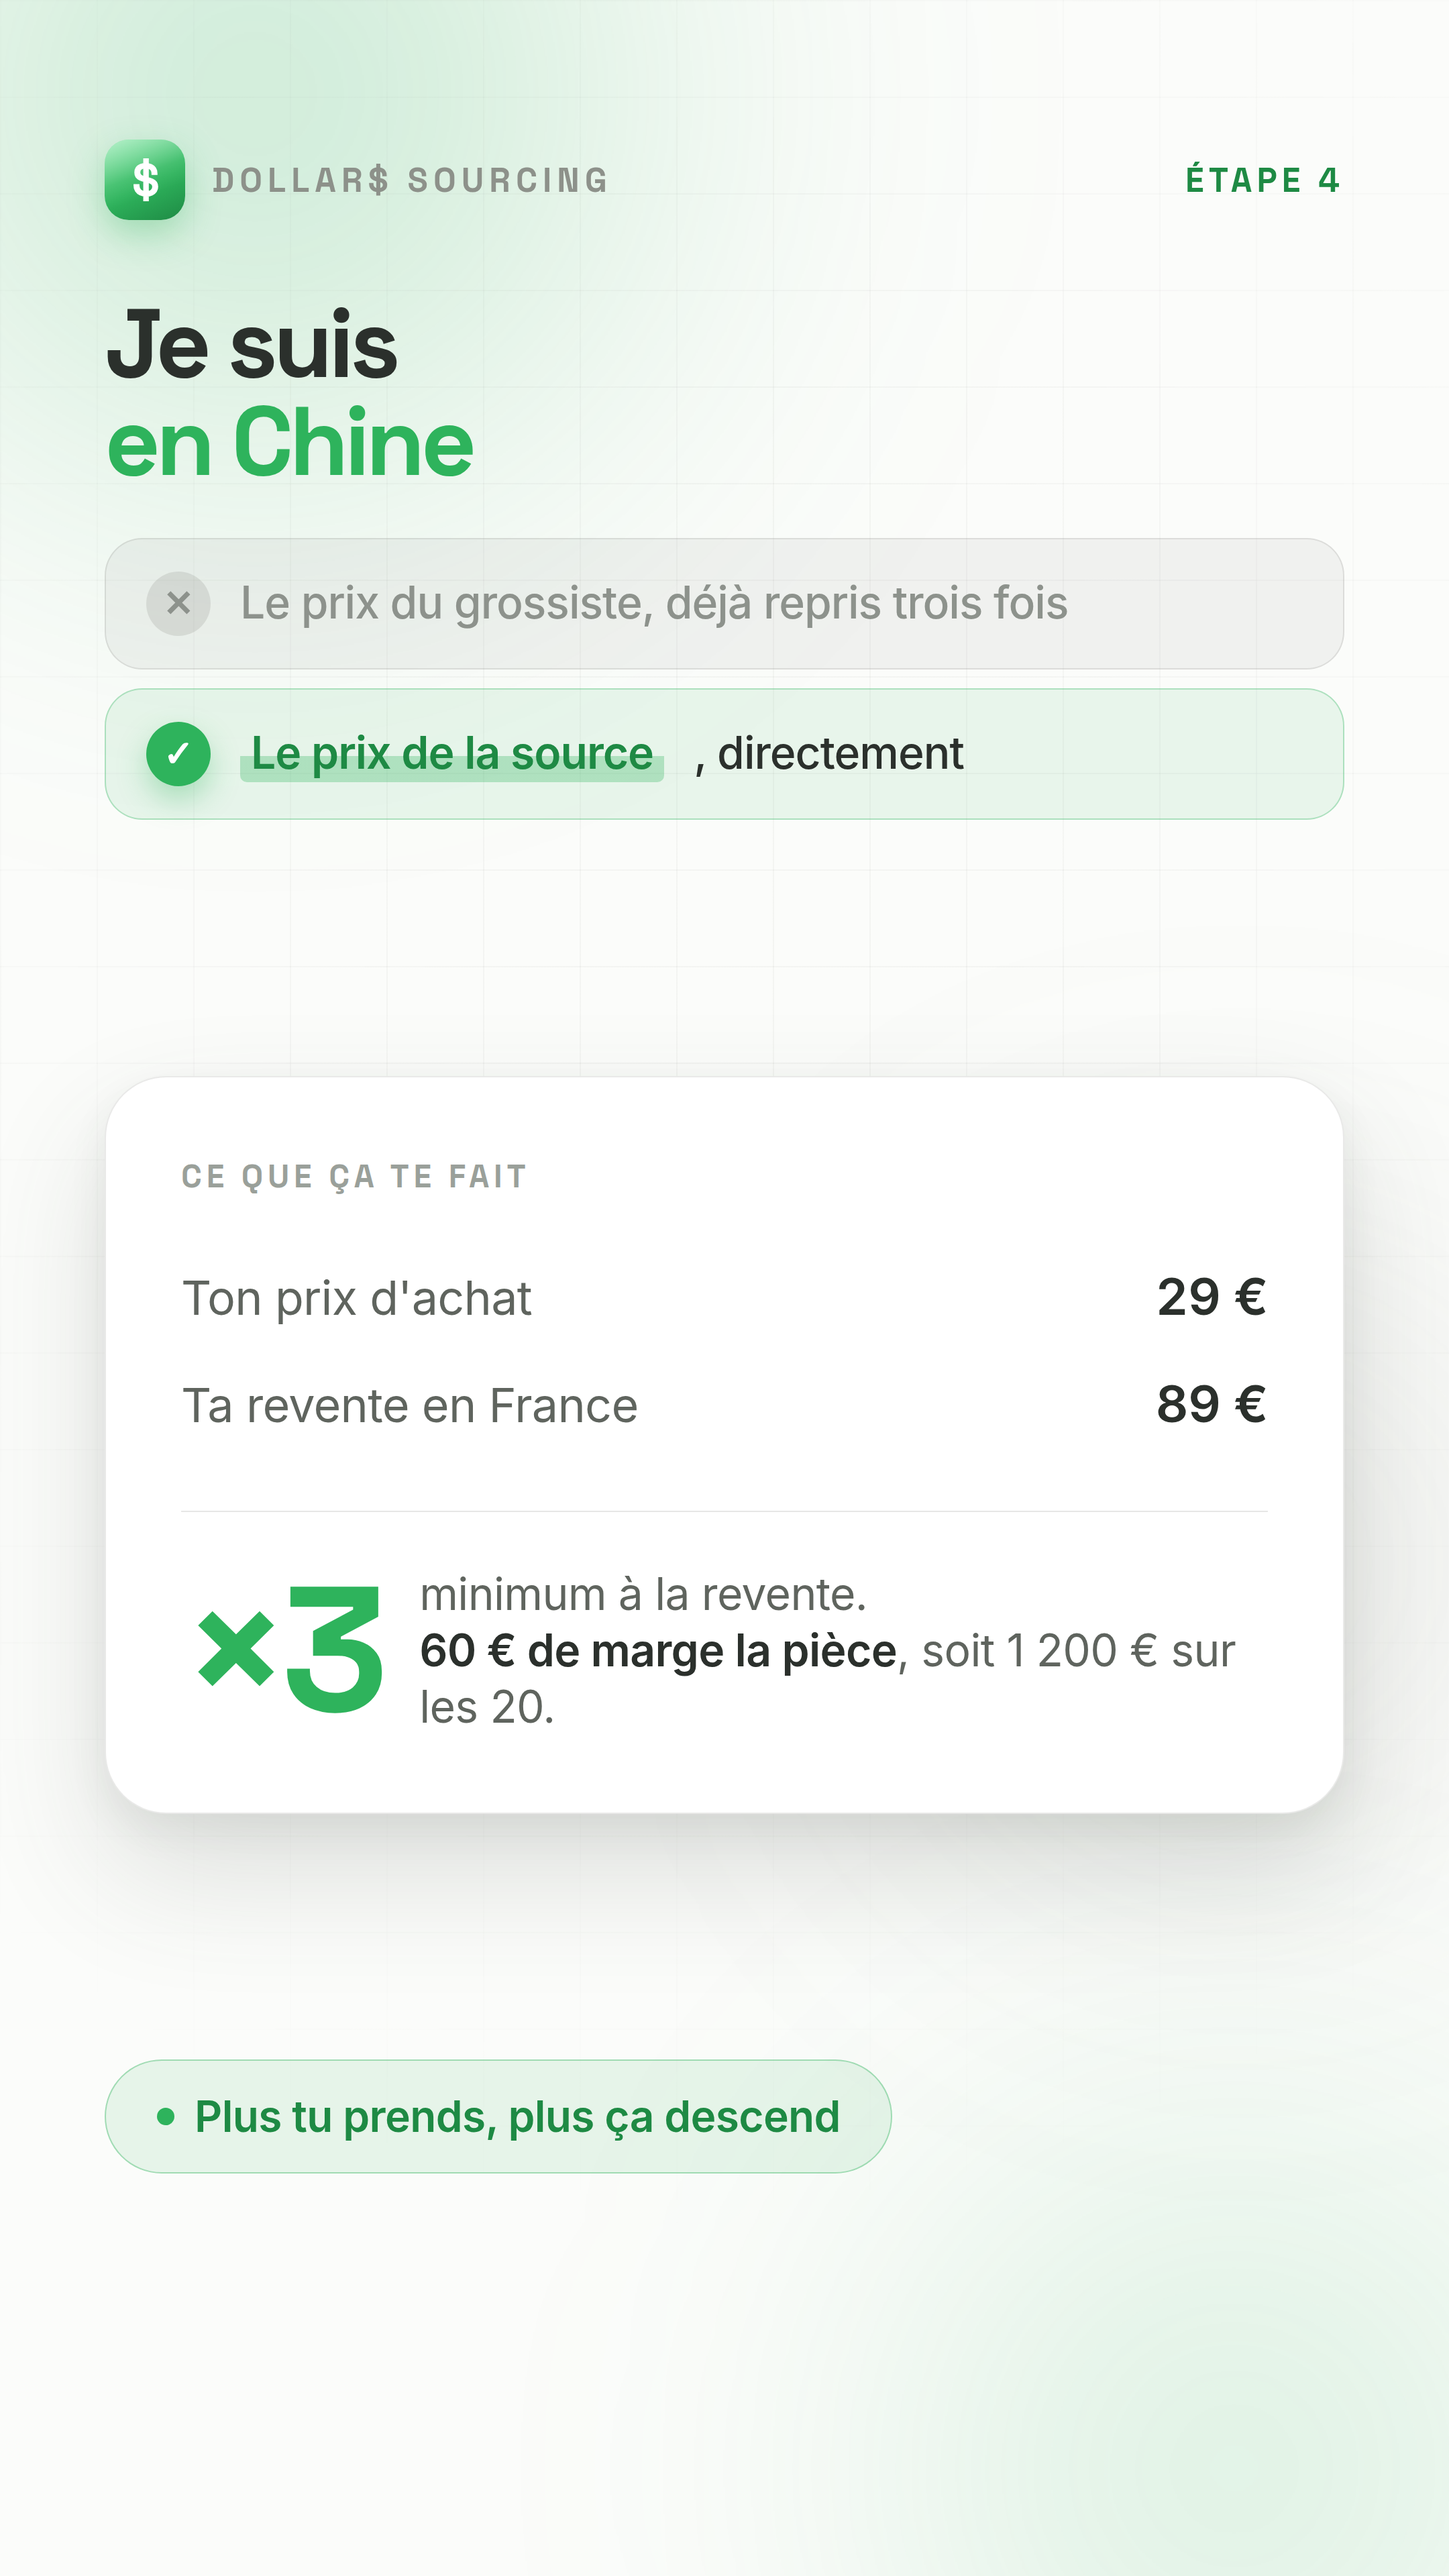
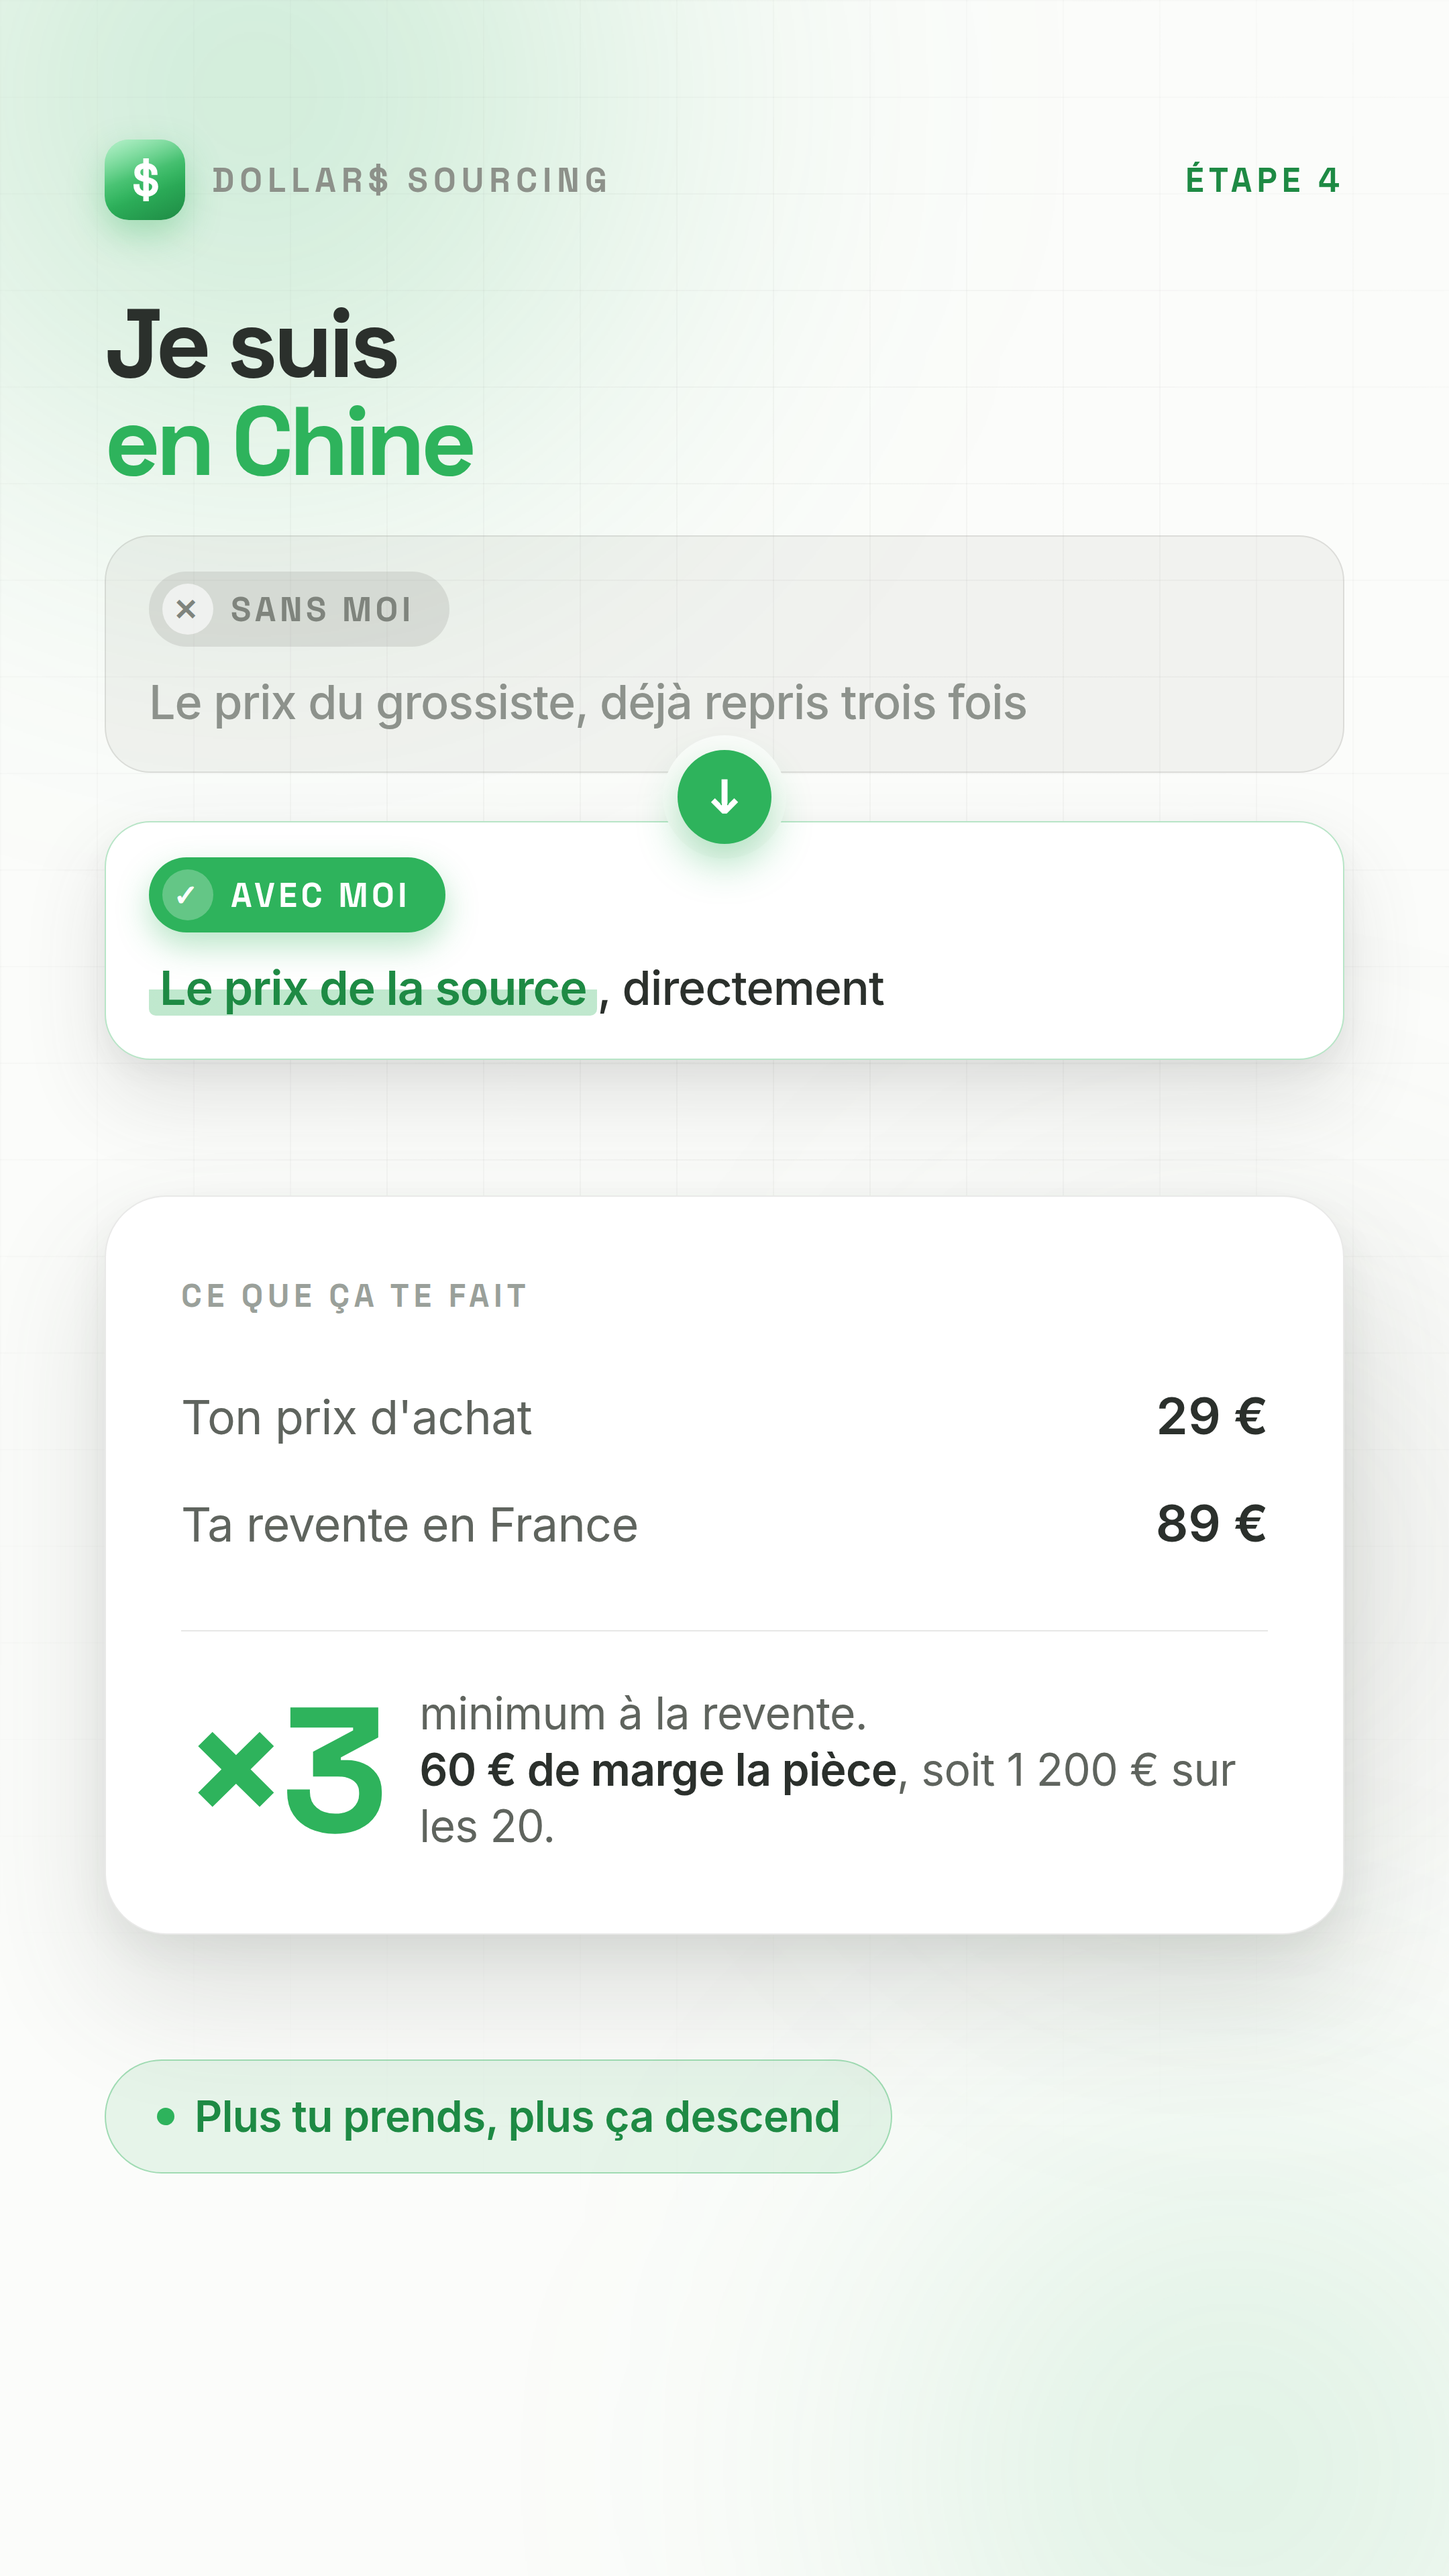
La comparaison s'écrit, elle ne se devine plus
Les affiches ont été montrées à quelqu'un d'extérieur. Il n'a pas vu que
c'était un avant/après : il a lu deux phrases sans comprendre qu'elles
s'opposaient.

La cause est nette. Le module était une ligne grise avec une croix et une
ligne verte avec une coche — élégant, et illisible pour qui découvre.
Aucune ne disait « avant », aucune ne disait « après ».

La leçon vaut au-delà de ces images : une couleur ne dit rien à qui ne
connaît pas le code. Le vert veut dire « bien » pour celui qui a fabriqué
l'image, pas pour celui qui la croise une seconde et demie entre deux
vidéos. Ce qui est évident quand on a le contexte ne l'est jamais sans
lui, et la seule façon de le savoir est de montrer à quelqu'un qui ne
l'a pas.

Trois ajouts, dont aucun n'est décoratif :

- Deux étiquettes en toutes lettres, SANS MOI et AVEC MOI. C'est l'ajout
  qui règle le problème ; le reste ne fait que l'appuyer.
- Une flèche à cheval sur les deux blocs, avec un anneau à la couleur de
  la page : elle transforme deux blocs posés l'un sous l'autre en un
  passage de l'un à l'autre.
- Deux surfaces différentes : le « sans » est un creux gris et plat, le
  « avec » une carte blanche qui décolle. La hiérarchie se voit avant même
  qu'on lise.

Dans la vidéo, la flèche arrive SEULE entre les deux blocs : ce temps mort
est ce qui fait comprendre le passage. Chaque affiche tient 3,8 s au lieu
de 3,4 — deux blocs à lire au lieu de deux lignes, et l'entrée prend
elle-même 1,9 s.
[…]

diff --git a/marketing/README.md b/marketing/README.md
@@ -63,18 +63,41 @@ marqueur vaudrait dix fois cette image. Elle se regénère avec
 `node make-illustration.mjs`.
 
 
-## Chaque affiche porte l'opposition
+## Chaque affiche porte la comparaison
 
-Le carrousel ne décrit plus, il oppose. Sur chacune des huit, deux lignes
-remplacent le paragraphe d'explication : ce qui se passe **sans** lui (gris,
-croix), ce qui se passe **avec** (vert, coche). Une phrase de prose demande
-trois secondes qu'on n'a pas sur un fil social ; deux lignes opposées se lisent
-en une demie.
+Le carrousel ne décrit plus, il compare. Sur chacune des huit, un bloc **Sans
+moi → Avec moi** remplace le paragraphe d'explication. Une phrase de prose
+demande trois secondes qu'on n'a pas sur un fil social ; deux blocs opposés se
+lisent en une demie.
 
-Trois règles tiennent le module :
+### Le test qui a tout changé
+
+La première version du module était une ligne grise avec une croix, une ligne
+verte avec une coche. Élégant, et **illisible pour qui découvre** : montré à
+quelqu'un d'extérieur, il a lu deux phrases sans comprendre qu'elles
+s'opposaient. Aucune ne disait « avant », aucune ne disait « après ».
+
+**La leçon, et elle vaut au-delà de ces images : une couleur ne dit rien à qui
+ne connaît pas le code.** Le vert veut dire « bien » pour celui qui a fabriqué
+l'image, pas pour celui qui la croise une seconde et demie entre deux vidéos.
+Ce qui est évident quand on a le contexte ne l'est jamais sans lui — et la
+seule façon de le savoir est de montrer à quelqu'un qui ne l'a pas.
+
+D'où trois ajouts, dont aucun n'est décoratif :
+
+- **Deux étiquettes en toutes lettres**, `SANS MOI` et `AVEC MOI`. C'est
+  l'ajout qui règle le problème ; le reste ne fait que l'appuyer.
+- **Une flèche à cheval sur les deux blocs**, avec un anneau à la couleur de la
+  page. Elle transforme deux blocs posés l'un sous l'autre en un *passage* de
+  l'un à l'autre.
+- **Deux surfaces différentes** : le « sans » est un creux gris et plat, le
+  « avec » est une carte blanche qui décolle. La hiérarchie se voit avant même
+  qu'on lise.
+
+### Les trois règles qui tiennent
 
 - **Le « sans » ne porte aucun vert.** Le vert est la marque : s'il apparaît des
-  deux côtés, l'opposition ne dit plus rien. Le gris nardo tient le rôle.
+  deux côtés, la comparaison ne dit plus rien. Le gris nardo tient le rôle.
 - **Le détail qui compte est surligné, pas seulement mis en gras.** Sur un
   téléphone tenu à bout de bras, un gras ne se distingue plus d'un texte normal —
   d'où le fond vert au trait, qui se voit avant même d'être lu.
@@ -82,9 +105,11 @@ Trois règles tiennent le module :
   `580 €` sur le prix, `×3` sur la marge. Deux gros chiffres sur la même image
   s'annulent.
 
-Les affiches à capture d'écran (`.phone.mid`) ont un téléphone d'un cran plus
-petit que les anciennes : l'opposition a pris la place du paragraphe, pas celle
-de ce qui se lit.
+Les affiches à capture d'écran (`.phone.mid`) ont un téléphone plus petit que
+les premières versions : la comparaison a pris la place du paragraphe, pas celle
+de ce qui se lit. `.phone.mid.cut` coupe 42 px plus haut sur l'affiche 3 —
+une capture coupée en plein milieu d'un bouton a l'air d'un bug, pas d'un
+cadrage.
 
 ## `09-avant-apres` — un post à part, pas la neuvième du carrousel
 
@@ -137,9 +162,14 @@ Trois choses à savoir sur ce procédé :
 - **On capture à 1080 de large, la taille finale.** Le texte est rendu à cette
   taille, jamais redimensionné après coup.
 
+L'ordre d'arrivée est celui de la lecture, et il porte la démonstration :
+le titre, puis le bloc **Sans moi**, puis la flèche **seule** — c'est ce temps
+mort qui fait comprendre qu'on passe de l'un à l'autre — puis le bloc **Avec
+moi**, puis la preuve à l'écran.
+
 Le seul moment appuyé est le **surlignage vert qui se trace** de gauche à
 droite, comme au marqueur, et il tombe sur le mot qui compte. Le reste ne fait
-que monter de vingt pixels en s'éclaircissant. Les masses de lumière du fond
+que monter de vingt-six pixels en s'éclaircissant. Les masses de lumière du fond
 dérivent pendant toute l'affiche : sans elles, une image arrêtée après son
 entrée a l'air d'un arrêt sur image.
 
